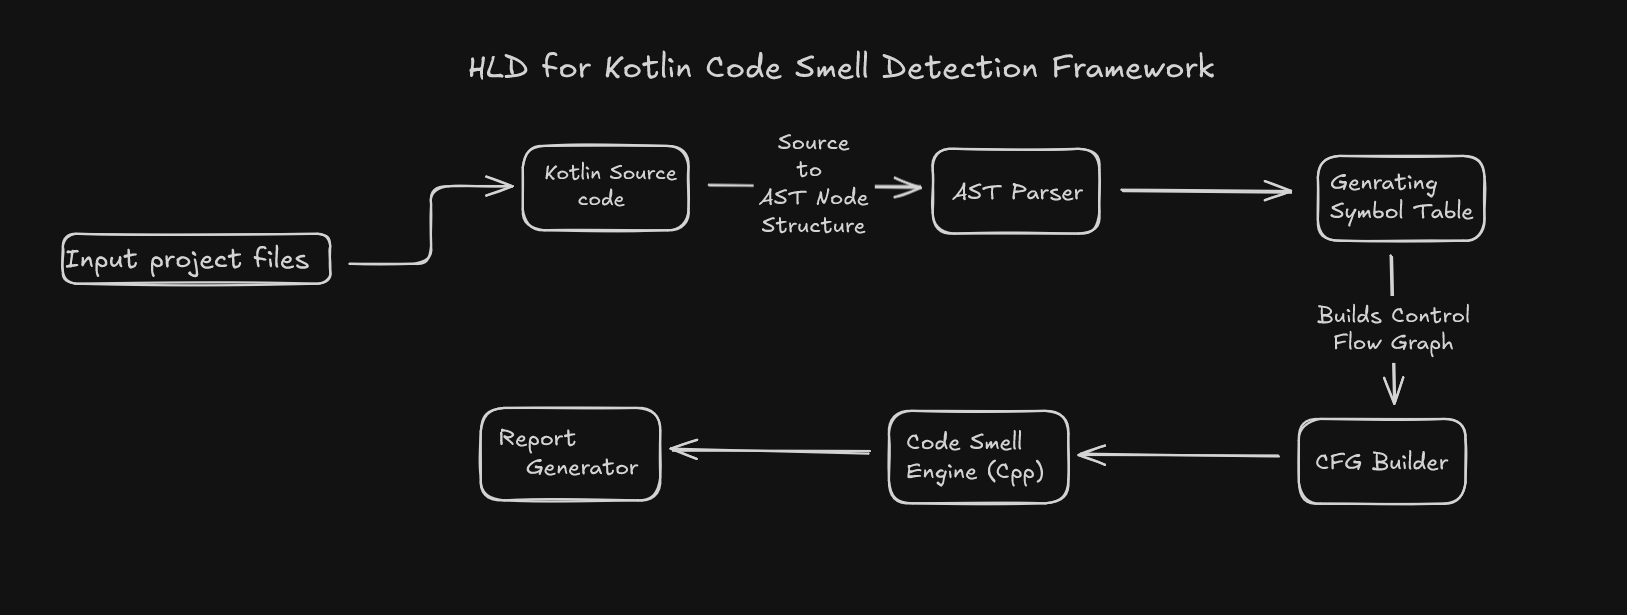
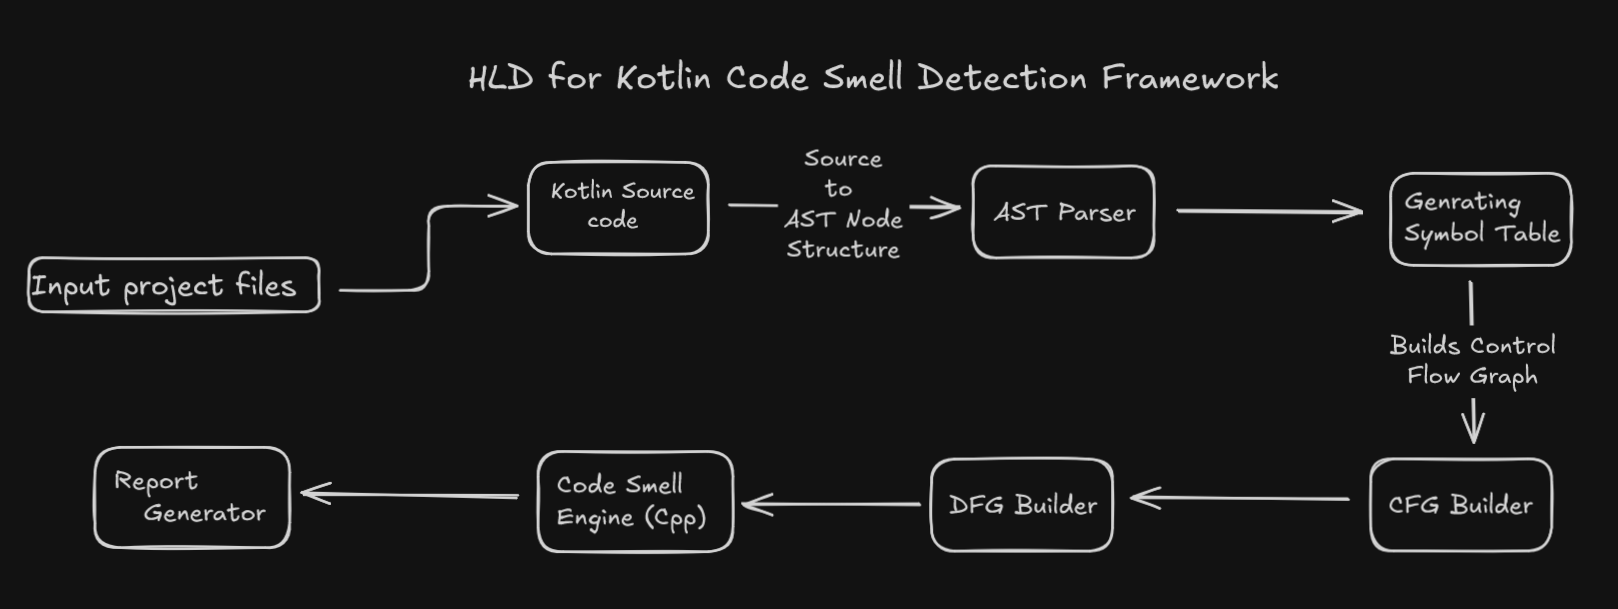
hld

diff --git a/Design/Readme.md b/Design/Readme.md
@@ -54,6 +54,33 @@ It leverages **Tree-sitter** to parse Kotlin source code into an **AST (Abstract
 
     - Detects infinite loops, unused branches, and CPU-heavy computations.
 
+### 4 . DFG (Data Flow Graph) Builder
+
+- **Goal**: Models how data flows in the program.
+
+- **Dependencies**: AST (to know variable nodes) , Symbol Table (to know types / scopes) , CFG (to know execution sequence)
+
+- **Responsibilities**:
+
+    - Track how data moves between operations.
+
+    - Build edges based on: Definitions (Def) and Uses (Use)
+
+    - Identify:
+        - Read-after-write (RAW)  ,       Write-after-write (WAW)  ,  Write-after-read (WAR)
+
+- **Use Case:**
+
+    - Memory Leak Detector
+
+    - Allocation-in-Loop Detector
+
+    - Unreleased Resource Detector
+
+    - Heavy Object Reuse Detector
+
+    - Uninitialized Variable Detector
+
 
 ## 5. Smell Detection Engine
 
